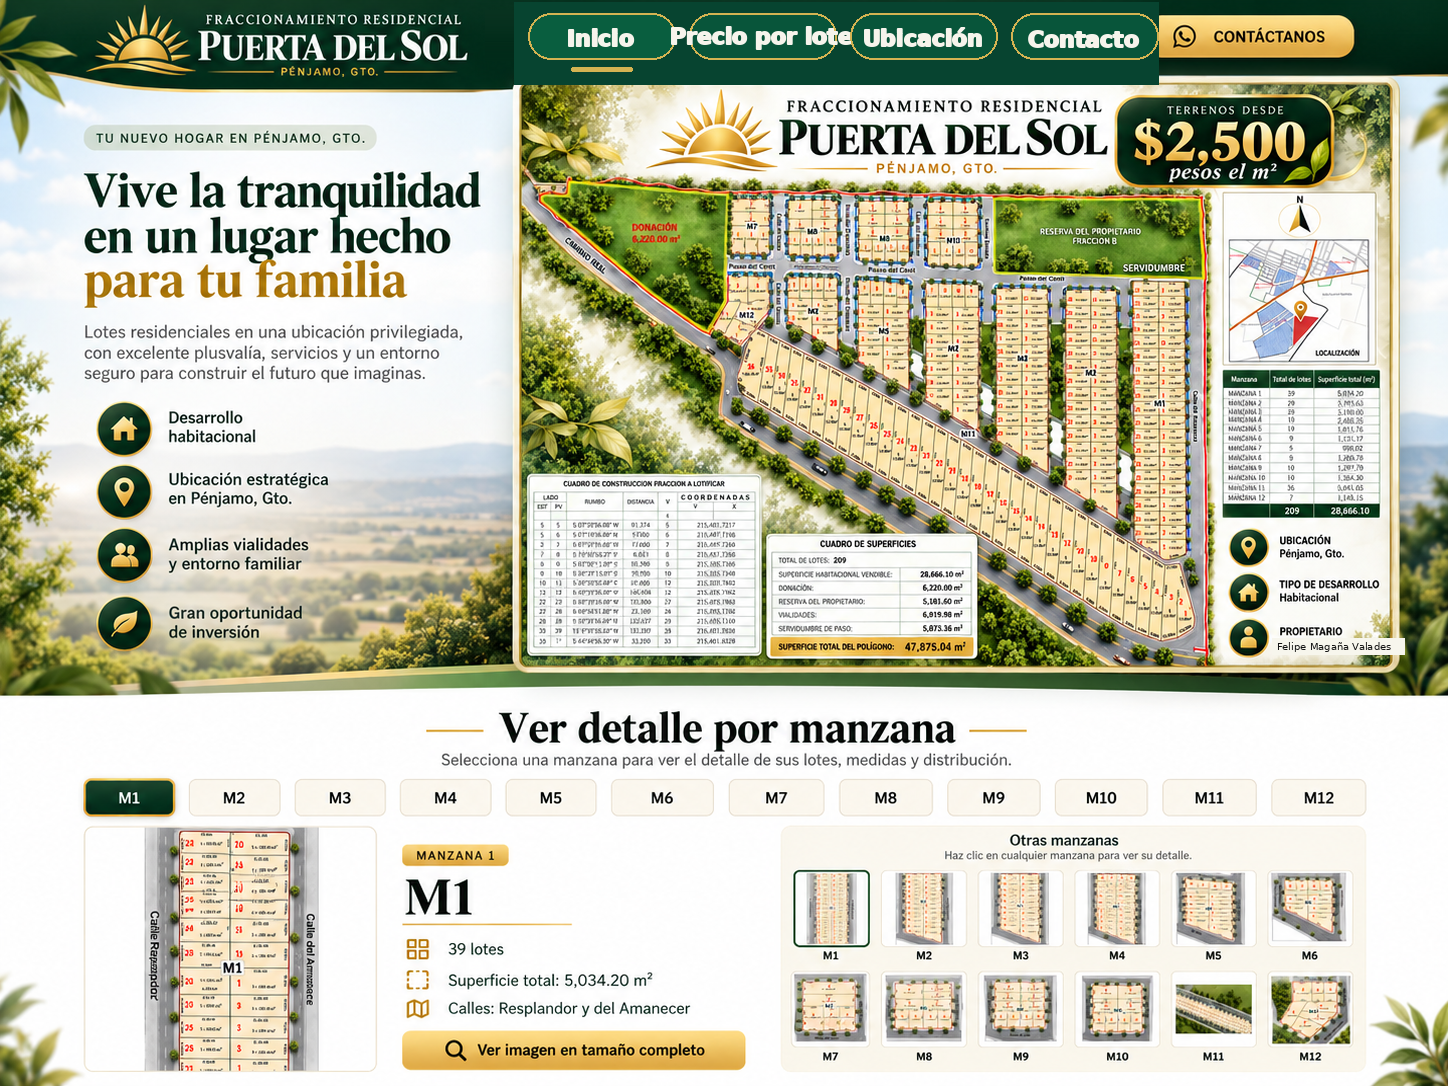
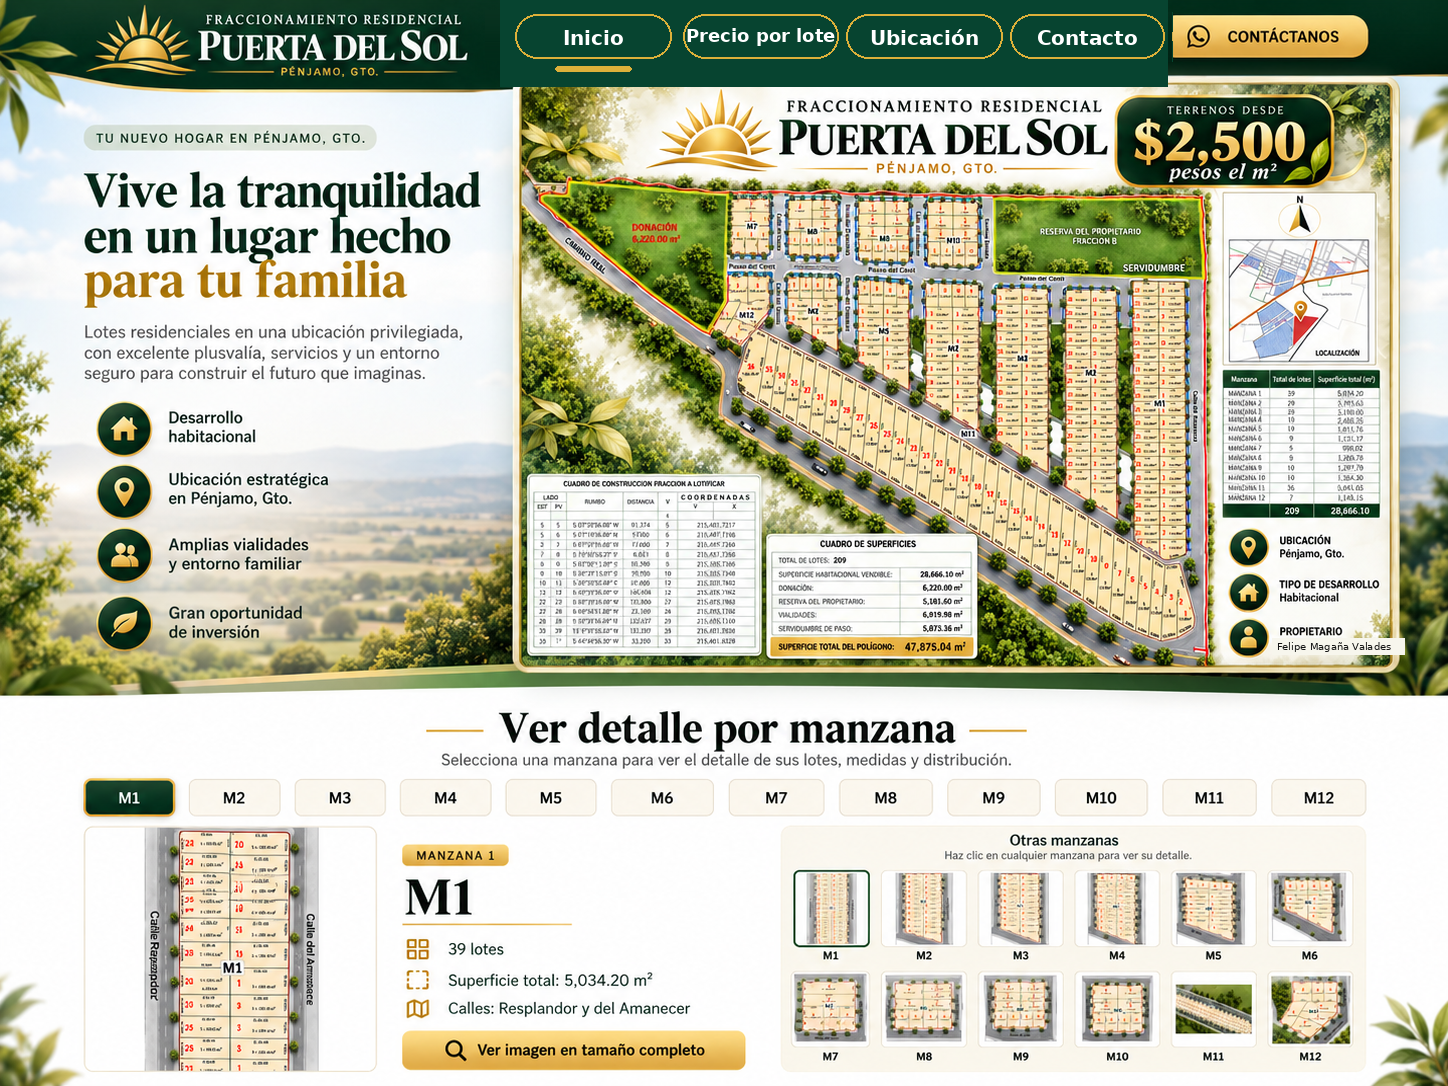
Add files via upload

Changed region(s): [[0.3419, 0.0, 0.9634, 0.0912]]

diff --git a/index.html b/index.html
@@ -24,13 +24,11 @@ body{min-height:0}
 .master-hotspot:hover{box-shadow:inset 0 0 0 3px rgba(229,179,60,.75)}
 
 .contact-panel{
-  position:absolute;left:76.75%;top:1.50%;width:14.55%;height:4.35%;z-index:6;
-  display:flex;flex-direction:column;align-items:center;justify-content:center;
-  background:transparent;box-shadow:none;border:0;color:#f4d27a;text-decoration:none;
-  font-weight:800;line-height:1.12;text-align:center;font-size:clamp(7px,.78vw,12px);
-  text-shadow:0 1px 2px rgba(0,0,0,.65)
+  position:absolute;left:80.90%;top:1.15%;width:13.60%;height:4.65%;z-index:6;
+  display:block;background:transparent;box-shadow:none;border:0;text-decoration:none;
+  cursor:pointer
 }
-.contact-panel span{display:block;white-space:nowrap}
+.contact-panel span{display:none}
 
 .map-hotspot{
   position:absolute;z-index:8;display:block;background:transparent;border-radius:10px;
@@ -270,6 +268,48 @@ body{min-height:0}
   .price-table th,.price-table td{padding:9px 10px}
 }
 
+
+/* WhatsApp */
+.whatsapp-float{
+  position:fixed;right:20px;bottom:20px;z-index:90;
+  display:flex;align-items:center;justify-content:center;gap:11px;
+  width:232px;min-height:66px;padding:9px 16px 9px 12px;
+  border-radius:36px;background:#25D366;color:#fff;text-decoration:none;
+  font-size:15px;font-weight:900;line-height:1.08;
+  box-shadow:0 8px 26px rgba(0,0,0,.28);
+  border:2px solid rgba(255,255,255,.95);
+  overflow:hidden;white-space:normal;
+  transition:transform .18s ease,box-shadow .18s ease
+}
+.whatsapp-float:hover,.whatsapp-float:focus-visible{
+  transform:translateY(-2px);
+  box-shadow:0 10px 30px rgba(0,0,0,.34);
+  outline:none
+}
+.whatsapp-float svg{
+  width:43px;height:43px;padding:6px;display:block;fill:currentColor;flex:0 0 43px;
+  border:2px solid #fff;border-radius:50%;box-sizing:border-box
+}
+.whatsapp-float .wa-label{
+  display:block;max-width:148px;text-align:left;white-space:normal;overflow-wrap:normal
+}
+.whatsapp-contact{
+  display:flex;align-items:center;justify-content:center;gap:9px;
+  margin:14px 0 16px;padding:14px 18px;border-radius:12px;
+  background:#25D366;color:#fff;text-decoration:none;
+  font-size:16px;font-weight:900
+}
+.whatsapp-contact svg{width:22px;height:22px;fill:currentColor}
+@media(max-width:700px){
+  .whatsapp-float{
+    right:12px;bottom:max(12px,env(safe-area-inset-bottom));
+    width:205px;min-height:58px;padding:7px 12px 7px 9px;gap:9px;border-radius:31px;
+    font-size:13.5px
+  }
+  .whatsapp-float svg{width:39px;height:39px;flex-basis:39px;padding:5px}
+  .whatsapp-float .wa-label{display:block;max-width:132px}
+}
+
 </style>
 </head>
 <body>
@@ -364,6 +404,13 @@ body{min-height:0}
   <button class="mf-top" onclick="window.scrollTo({top:0,behavior:'smooth'})">↑ Volver al inicio</button>
 </section>
 
+
+<a class="whatsapp-float" href="https://wa.me/523535350291?text=Hola%2C%20quiero%20informaci%C3%B3n%20sobre%20un%20lote%20en%20Residencial%20Puerta%20del%20Sol." target="_blank" rel="noopener noreferrer"
+   aria-label="Contáctanos por WhatsApp" title="Contáctanos por WhatsApp">
+  <svg viewBox="0 0 32 32" aria-hidden="true"><path d="M19.11 17.21c-.31-.16-1.84-.91-2.12-1.01-.29-.1-.5-.16-.7.16-.21.31-.81 1.01-.99 1.22-.18.21-.36.23-.68.08-.31-.16-1.32-.49-2.52-1.56-.93-.83-1.56-1.86-1.74-2.17-.18-.31-.02-.48.14-.64.14-.14.31-.36.47-.55.16-.18.21-.31.31-.52.1-.21.05-.39-.03-.55-.08-.16-.7-1.69-.96-2.31-.25-.61-.51-.53-.7-.54h-.6c-.21 0-.55.08-.83.39-.29.31-1.09 1.07-1.09 2.6s1.12 3.02 1.27 3.23c.16.21 2.2 3.36 5.33 4.71.75.32 1.33.51 1.78.65.75.24 1.43.2 1.97.12.6-.09 1.84-.75 2.1-1.48.26-.73.26-1.35.18-1.48-.08-.13-.29-.21-.6-.36zM16.03 3.2c-7.08 0-12.84 5.75-12.84 12.83 0 2.26.59 4.47 1.71 6.41L3.08 29l6.71-1.76a12.82 12.82 0 0 0 6.23 1.59h.01c7.07 0 12.83-5.76 12.83-12.84 0-3.43-1.33-6.65-3.76-9.07A12.74 12.74 0 0 0 16.03 3.2zm0 23.46h-.01c-1.91 0-3.79-.51-5.43-1.48l-.39-.23-3.98 1.04 1.06-3.88-.25-.4a10.62 10.62 0 0 1-1.63-5.67c0-5.86 4.77-10.63 10.64-10.63 2.84 0 5.51 1.1 7.52 3.11a10.56 10.56 0 0 1 3.11 7.52c-.01 5.86-4.78 10.62-10.64 10.62z"/></svg>
+  <span class="wa-label">Contáctanos<br>por WhatsApp</span>
+</a>
+
 <div class="modal" id="modal">
   <div class="modal-card">
     <button class="closebtn" onclick="closeModal()">Cerrar ✕</button>
@@ -382,6 +429,9 @@ body{min-height:0}
     <h2>Contacto</h2>
     <a class="phone" href="tel:+523535350291">353 535 0291</a>
     <a class="phone" href="tel:+523312279687">331 227 9687</a>
+    <a class="whatsapp-contact" href="https://wa.me/523535350291?text=Hola%2C%20quiero%20informaci%C3%B3n%20sobre%20un%20lote%20en%20Residencial%20Puerta%20del%20Sol." target="_blank" rel="noopener noreferrer" aria-label="Enviar mensaje por WhatsApp">
+      <svg viewBox="0 0 32 32" aria-hidden="true"><path d="M19.11 17.21c-.31-.16-1.84-.91-2.12-1.01-.29-.1-.5-.16-.7.16-.21.31-.81 1.01-.99 1.22-.18.21-.36.23-.68.08-.31-.16-1.32-.49-2.52-1.56-.93-.83-1.56-1.86-1.74-2.17-.18-.31-.02-.48.14-.64.14-.14.31-.36.47-.55.16-.18.21-.31.31-.52.1-.21.05-.39-.03-.55-.08-.16-.7-1.69-.96-2.31-.25-.61-.51-.53-.7-.54h-.6c-.21 0-.55.08-.83.39-.29.31-1.09 1.07-1.09 2.6s1.12 3.02 1.27 3.23c.16.21 2.2 3.36 5.33 4.71.75.32 1.33.51 1.78.65.75.24 1.43.2 1.97.12.6-.09 1.84-.75 2.1-1.48.26-.73.26-1.35.18-1.48-.08-.13-.29-.21-.6-.36zM16.03 3.2c-7.08 0-12.84 5.75-12.84 12.83 0 2.26.59 4.47 1.71 6.41L3.08 29l6.71-1.76a12.82 12.82 0 0 0 6.23 1.59h.01c7.07 0 12.83-5.76 12.83-12.84 0-3.43-1.33-6.65-3.76-9.07A12.74 12.74 0 0 0 16.03 3.2zm0 23.46h-.01c-1.91 0-3.79-.51-5.43-1.48l-.39-.23-3.98 1.04 1.06-3.88-.25-.4a10.62 10.62 0 0 1-1.63-5.67c0-5.86 4.77-10.63 10.64-10.63 2.84 0 5.51 1.1 7.52 3.11a10.56 10.56 0 0 1 3.11 7.52c-.01 5.86-4.78 10.62-10.64 10.62z"/></svg><span>Enviar mensaje por WhatsApp</span>
+    </a>
     <button class="contact-close" onclick="backContactToMain()">← Menú principal</button>
   </div>
 </div>
